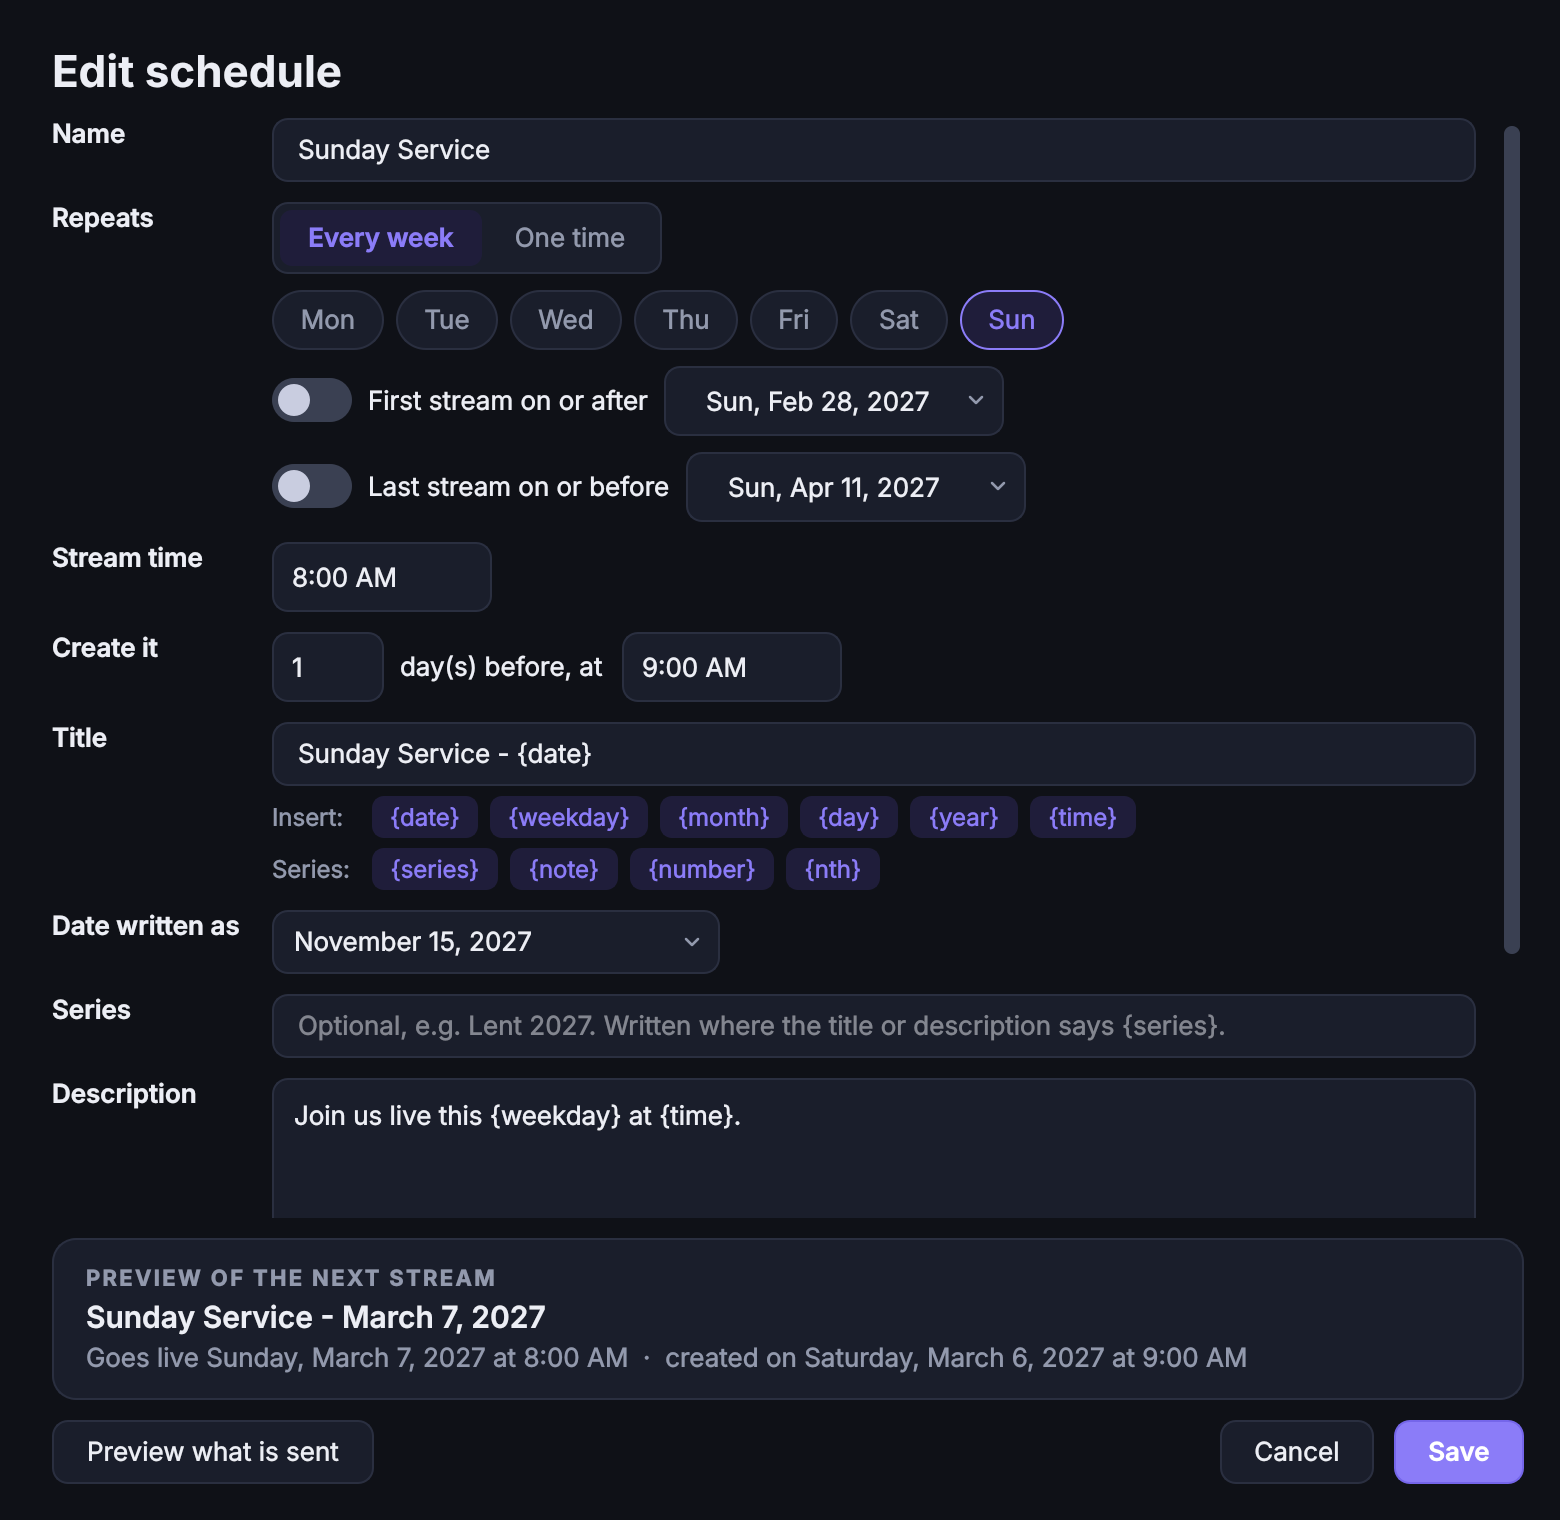
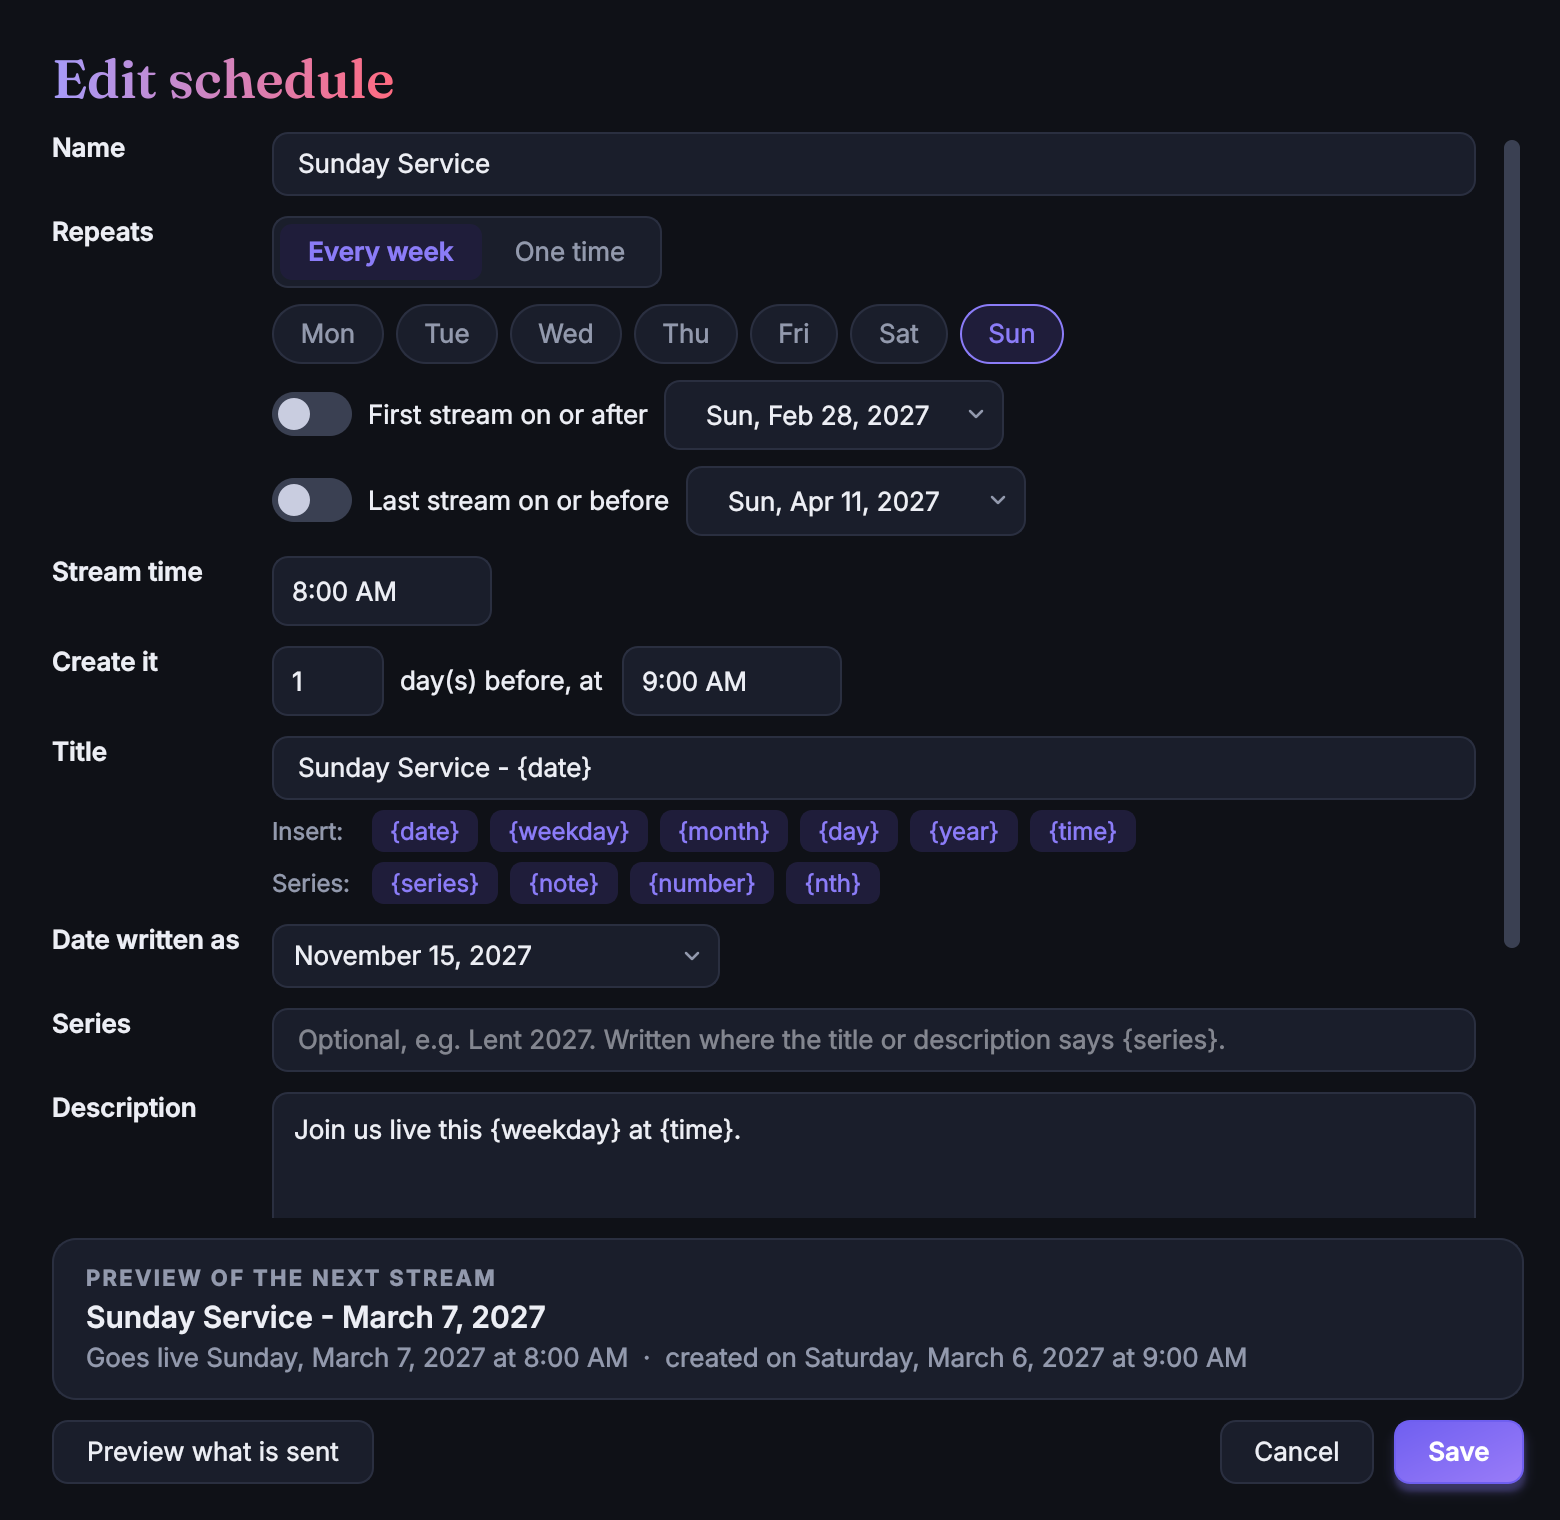
Set up release 0.0.7 alpha: the app in the website's look
The version, the release notes, the README's notice and the workflow's default tag are set for
0.0.7. The pictures of the README and the website are retaken in the new look (tools/screenshots.py,
the same pages and sizes as before).

Claude-Session: https://claude.ai/code/session_017JJoBzBoRy6k521iZSm6qM

diff --git a/paths.py b/paths.py
@@ -11,7 +11,7 @@ import sys
 
 APP_NAME = "Stream Scheduler"
 APP_SLUG = "stream-scheduler"
-VERSION = "0.0.6-alpha"
+VERSION = "0.0.7-alpha"
 AUTHOR = "Aaron Steger"
 COPYRIGHT = f"Copyright (c) 2026 {AUTHOR}"
 PUBLISHER = "Leaven Labs"

diff --git a/.github/RELEASE_NOTES.md b/.github/RELEASE_NOTES.md
@@ -1,9 +1,24 @@
-The seventh alpha of Stream Scheduler: it schedules your YouTube live streams by itself, with the date
+The eighth alpha of Stream Scheduler: it schedules your YouTube live streams by itself, with the date
 of each stream in the title, shows the coming stream on your website, and tells you when one needs you.
 
 > **Alpha.** YouTube scheduling and the Wix website update are confirmed on a real channel and site.
 > Everything under "New in 0.0.5" that talks to another service passed its automated tests but is
 > **not yet confirmed on real accounts**. Try each one once before relying on it.
+
+## New in 0.0.7
+
+- **The look of the website, in the app.** Its gradient of indigo, violet and coral is on a line along
+  the top of the window, the main buttons, the switches, the date leaves and the page titles, and the
+  headings are in the website's typeface. Where things are and what they do has not changed.
+- **A soft glow** under the main buttons and under the next stream on the Upcoming page.
+- **Small animations.** A page fades in and a band of light crosses its title; the menu's marker and
+  the switches slide; a ring spreads from the green light while auto-scheduling is on; and a light
+  runs along the top line while the app is working, so you can see that it is busy.
+- **Settings → Animations** switches them off for a still window. Nothing moves while the window is
+  closed to the tray.
+
+The new look passed the automated tests but is **not yet seen on a real Windows PC or Mac**. Please
+report anything that looks wrong or feels slow.
 
 ## New in 0.0.6
 

diff --git a/README.md b/README.md
@@ -3,8 +3,8 @@
 <p align="center">Schedules your weekly live streams on <b>YouTube</b> by itself, with the date of each<br>
 stream already in the title, shows the coming stream on your website, and tells you when one needs you.</p>
 
-> **v0.0.6 alpha.** YouTube scheduling and the Wix website update are confirmed on a real channel and
-> site. New since 0.0.5 and **not yet confirmed on real accounts**: alerts (email, Discord, Slack,
+> **v0.0.7 alpha.** YouTube scheduling and the Wix website update are confirmed on a real channel and
+> site. New in 0.0.7 is the look of the app, **not yet seen on a real Windows PC or Mac**. New since 0.0.5 and **not yet confirmed on real accounts**: alerts (email, Discord, Slack,
 > Pushover), thumbnails, playlists and the other YouTube settings, cancelling a stream, WordPress and
 > webhook destinations, and the notice of new versions. Please report what you find.
 
